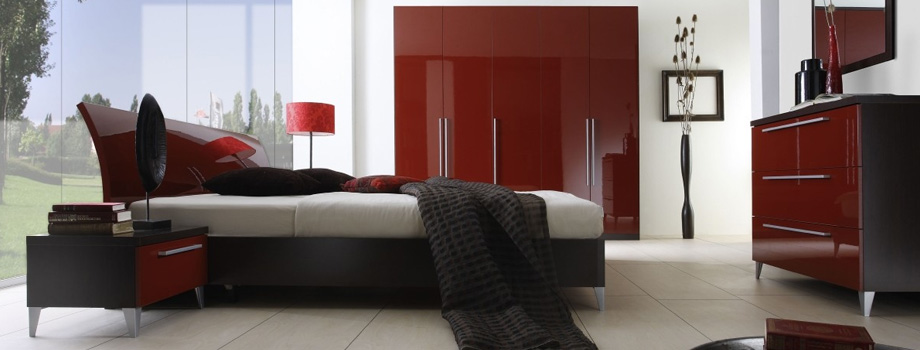
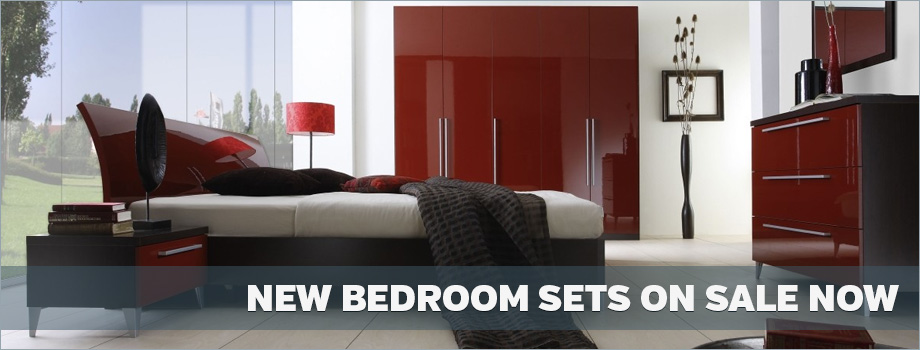
Added images for homepage, swapped embeds on homepage

diff --git a/project/index.html b/project/index.html
@@ -35,22 +35,21 @@
         <div id="contentContainer">
             <article>
             	<div id="featuredImage">
-                    <p class="featuredImageHeadline">New Living Room Sets Available Now</p>
                     <img src="images/modern-new-living-room-sets-available-now.jpg" width="960" height="350" />
                 </div>
                 <div id="callToActions">
-                    <img src="http://placehold.it/310x250&text=Current+Sales+CTA" width="310" height="250" />
-                    <img src="http://placehold.it/310x250&text=Get+Specials+in+Your+Email+CTA" width="310" height="250" />
-                    <img src="http://placehold.it/310x250&text=Hours+of+Opperation+and+Contact+Info" width="310" height="250" />
+                    <img src="images/special-we-pay-your-sales-tax-this-month-only.jpg" width="294" height="150" class="homeCTA1" />
+                    <img src="images/get-deals-sent-straight-to-your-inbox.jpg" width="292" height="150" class="homeCTA2" />
+                    <img src="images/come-see-our-warehouse-in-person.jpg" width="294" height="150" class="homeCTA3" />
                 </div>
                 <div>
-                    <img src="http://placehold.it/120&text=Manufacturer+Logo" />
-                    <img src="http://placehold.it/120&text=Manufacturer+Logo" />
-                    <img src="http://placehold.it/120&text=Manufacturer+Logo" />
-                    <img src="http://placehold.it/120&text=Manufacturer+Logo" />
-                    <img src="http://placehold.it/120&text=Manufacturer+Logo" />
-                    <img src="http://placehold.it/120&text=Manufacturer+Logo" />
-                    <img src="http://placehold.it/120&text=Manufacturer+Logo" />
+                    <img src="images/brands/corsicana.jpg" alt="Corsicana Furniture" />
+                    <img src="images/brands/home-elegance.jpg" alt="Home Elegance" />
+                    <img src="images/brands/coaster-fine-furniture.jpg" alt="Coaster Fine Furniture" />
+                    <img src="images/brands/ashley-fine-furniture.jpg" alt="Ashley Fine Furniture" />
+                    <img src="images/brands/fusion.jpg" alt="Fusion Furniture" />
+                    <img src="images/brands/symbol-mattress.jpg" alt="Symbol Mattress" />
+                    <img src="images/brands/crown-mark.jpg" alt="Crown Mark" />
                 </div>
             </article>
             <footer>
